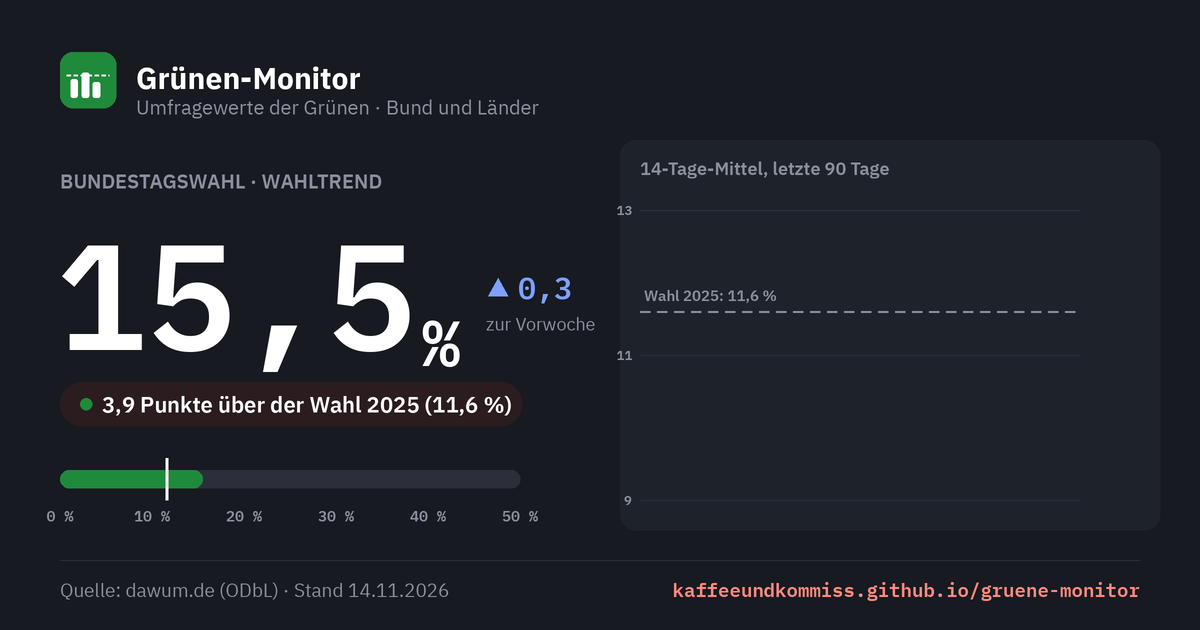
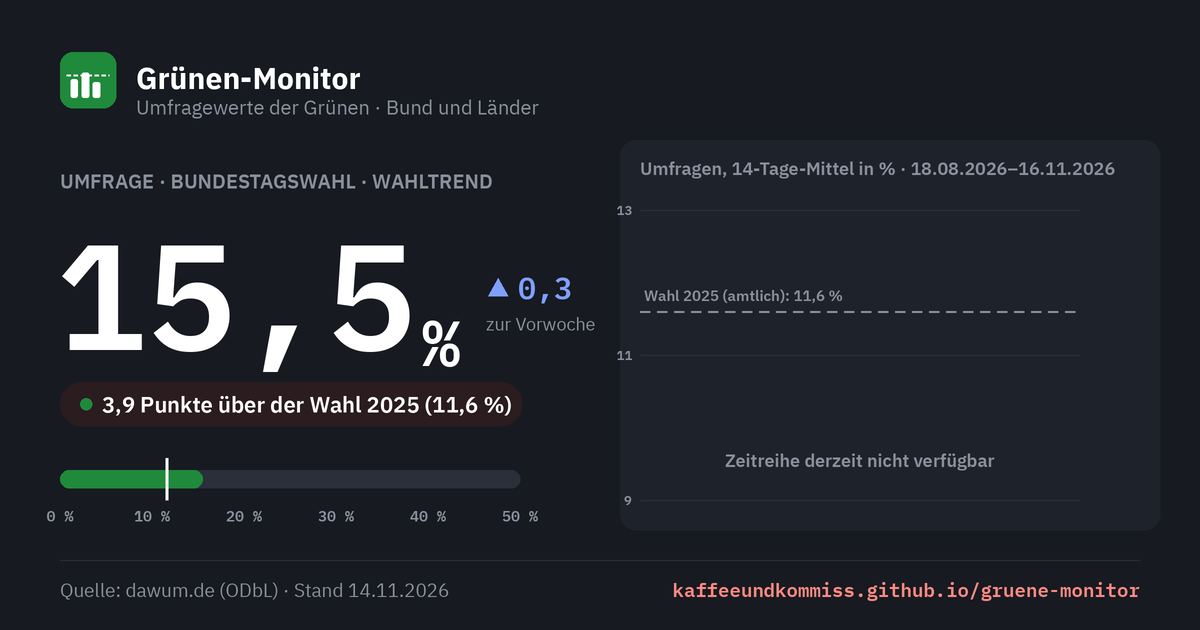
Diagramme eindeutig beschriften: Umfrage, amtliches Ergebnis, Chronik
Kennzeichen je Diagramm, Einheit, Zeitraum und Stand; Vorschaubilder
(og/make-og.py) mit derselben Kennzeichnung, damit das wöchentliche
Update die Beschriftung nicht überschreibt.

Claude-Session: https://claude.ai/code/session_01AuP7hKA5r64Vaqp6wB3yAR

diff --git a/index.html b/index.html
@@ -133,6 +133,9 @@
   .liste .lkopf{display:flex;justify-content:space-between;align-items:baseline;padding-bottom:8px;border-bottom:1px solid var(--line)}
   .liste .lkopf h3{margin:0;font-size:15px;font-weight:600}
   .liste .lkopf .skl{font-size:13px;color:var(--mute)}
+  .liste .llegende{margin:8px 0 0;font-size:13px;color:var(--mute)}
+  .abschnitt-legende{margin:6px 0 0;font-size:13px;color:var(--mute);max-width:46em}
+  .kachel .wart{font-size:12px;font-weight:600;color:var(--mute);margin-top:6px}
   .inst-zeile{display:grid;grid-template-columns:150px 1fr 60px;align-items:center;gap:14px;padding:7px 0;border-bottom:1px solid var(--hair)}
   .inst-zeile .nam{font-weight:500;font-size:14px;white-space:nowrap;overflow:hidden;text-overflow:ellipsis}
   .inst-zeile .dat{font-family:var(--mono);font-size:13px;color:var(--mute)}
@@ -240,7 +243,7 @@
   }
 .einstieg{margin:0 0 -20px;max-width:40em;color:var(--mute);font-size:16px;line-height:1.5}
 </style>
-<link rel="stylesheet" href="bereich.css?v=2">
+<link rel="stylesheet" href="bereich.css?v=3">
 </head>
 <body>
 <div class="kk-leiste"><div class="kk-in">
@@ -280,23 +283,28 @@
   <section id="bund-hero" aria-labelledby="bund-titel" data-teilen="Bundestagswahl"></section>
 
   <section id="bund-verlauf" class="karte verlauf" aria-labelledby="verlauf-titel" data-teilen="Zeitverlauf Bund" hidden>
+    <span class="art umfrage">Umfragen</span>
     <h2 id="verlauf-titel">Grüne im Zeitverlauf · Bund</h2>
     <p class="sub" id="verlauf-sub">Punkte: Einzelumfragen · Linie: 14-Tage-Mittel</p>
     <div id="verlauf-chart" class="fv-chart"></div>
-    <p class="fv-quelle">Quelle: <a href="https://dawum.de/Bundestag/" rel="noopener">dawum.de</a> · 14-Tage-Mittel ungewichtet</p>
+    <p class="fv-quelle" id="verlauf-quelle">Quelle: <a href="https://dawum.de/Bundestag/" rel="noopener">dawum.de</a> (ODbL) · 14-Tage-Mittel ungewichtet</p>
   </section>
 
   <section id="anstehend" aria-labelledby="anstehend-titel" data-teilen="Anstehende Wahlen">
+    <span class="art umfrage">Umfragen</span>
     <div class="kopfzeile">
       <h2 id="anstehend-titel">Anstehende Wahlen</h2>
       <span class="hint">nächster Termin zuerst</span>
     </div>
+    <p class="abschnitt-legende">Große Zahl: Umfragewert in % (Wahltrend, sonst Ø der neuesten Umfrage je Institut), kein Ergebnis. Balken 0–50 %, gestrichelt: amtliches Ergebnis der letzten Wahl im Land.</p>
     <div class="kacheln" id="anstehend-grid" style="margin-top:16px"></div>
-    <p class="quelle">Quelle: <a href="https://dawum.de" rel="noopener">dawum.de</a> (ODbL) · ohne Wahltrend: Ø der neuesten Umfrage je Institut · Vergleich: amtliches Ergebnis der letzten Wahl im Land</p>
+    <p class="quelle">Quelle: <a href="https://dawum.de" rel="noopener">dawum.de</a> (ODbL) · ohne Wahltrend: Ø der neuesten Umfrage je Institut · Vergleich: amtliches Ergebnis der letzten Wahl im Land<span id="anstehend-stand"></span></p>
   </section>
 
   <section id="gelaufen" aria-labelledby="gelaufen-titel" data-teilen="Gelaufene Wahlen" data-quelle="amtliche Endergebnisse der Landeswahlleitungen" hidden>
+    <span class="art amtlich">Amtliche Ergebnisse</span>
     <div class="kopfzeile"><h2 id="gelaufen-titel">Gelaufene Wahlen</h2></div>
+    <p class="abschnitt-legende">Amtliche Endergebnisse in %, Quelle je Zeile. Zur Vorwahl: Veränderung in Prozentpunkten. Balken 0–50 %, gestrichelt: Ergebnis der Wahl davor.</p>
     <div class="karte tabelle" id="gelaufen-tabelle" style="margin-top:16px"></div>
   </section>
 </main>
@@ -480,6 +488,10 @@
     return '';
   }
 
+  // Kennzeichen über jedem Diagramm: Umfrage oder amtliches Ergebnis (Gestaltung in bereich.css).
+  const artMarke = (art) => art === 'amtlich'
+    ? '<span class="art amtlich">Amtliches Ergebnis</span>' : '<span class="art umfrage">Umfragen</span>';
+
   const gruppen = gruppiereEbenen(data.ebenen || [], NOW);
 
   // ---------- Bund-Hero ----------
@@ -506,6 +518,7 @@
 
     heroEl.innerHTML = `<div class="karte hero">
       <div class="zahlen">
+        ${artMarke(lz.art === 'ergebnis' ? 'amtlich' : 'umfrage')}
         <h2 class="ueberschrift" id="bund-titel">${esc(bund.name)} · ${
           lz.art === 'trend' ? 'Wahltrend' : lz.art === 'ergebnis' ? 'Amtliches Ergebnis' : 'Ø der Umfragen'}</h2>
         <div class="leitzahl">
@@ -521,7 +534,7 @@
             ${balken(lz.wert, ref, (ref ? '<div class="marklbl">Wahl ' + esc(ref.jahr) + ': ' + pz(ref.wert) + '</div>' : '') + punkte)}
           </div>
           <div class="achse"><span>0 %</span><span>10 %</span><span>20 %</span><span>30 %</span><span>40 %</span><span>50 %</span></div>
-          <div class="legende">Balken: ${lz.art === 'trend' ? 'Wahltrend' : 'Leitzahl'} · Punkte: Einzelumfragen${ref ? ' · gestrichelt: Ergebnis der Wahl ' + esc(ref.jahr) : ''}</div>
+          <div class="legende">Angaben in %. Balken: ${lz.art === 'trend' ? 'Wahltrend (Umfragen)' : lz.art === 'ergebnis' ? 'amtliches Ergebnis' : 'Ø der Umfragen'} · Punkte: Einzelumfragen${ref ? ' · gestrichelt: amtliches Ergebnis der Wahl ' + esc(ref.jahr) : ''}</div>
         </div>
         <dl class="kennzahlen">
           <div><dt>Ø neueste Umfrage je Institut</dt><dd>${lz.avg == null ? '–' : pz(lz.avg)}</dd></div>
@@ -539,6 +552,7 @@
           <div class="lkopf">
             <h3>Neueste Umfrage je Institut</h3><span class="skl">Skala 0–50 %</span>
           </div>
+          <p class="llegende">Balken: Umfragewert in %${ref ? ' · gestrichelt: amtliches Ergebnis der Wahl ' + esc(ref.jahr) : ''}</p>
           ${rows.length ? rows.slice().sort((a, b) => (b.datum || '').localeCompare(a.datum || '')).map((r) =>
             `<div class="inst-zeile">
                <div><div class="nam">${esc(r.institut)}</div><div class="dat">${dfmt(r.datum)}</div></div>
@@ -584,8 +598,17 @@
     }
     const linie = gleitendesMittel(punkte, FENSTER);
     const sub = document.getElementById('verlauf-sub');
-    if(sub) sub.textContent = `Letzte ${TAGE} Tage · Punkte: Einzelumfragen · `
-      + `Linie: ${FENSTER}-Tage-Mittel`;
+    // Zeitraum und Stand als Datum, nicht nur "letzte 90 Tage": ein Screenshot muss
+    // auch Wochen später noch sagen, welches Fenster er zeigt.
+    const refV = vw(bund);
+    const bisT = NOW || new Date();
+    const vonT = new Date(Date.UTC(bisT.getUTCFullYear(), bisT.getUTCMonth(), bisT.getUTCDate()) - TAGE * 864e5);
+    const isoT = (t) => new Date(t).toISOString().slice(0, 10);
+    if(sub) sub.textContent = `Umfragewerte Bundestagswahl in %, ${dfmt(isoT(vonT))}–${dfmt(isoT(bisT))} `
+      + `(letzte ${TAGE} Tage) · Punkte: Einzelumfragen · Linie: ${FENSTER}-Tage-Mittel`
+      + (refV ? ` · gestrichelt: amtliches Ergebnis ${refV.jahr}` : '');
+    const vq = document.getElementById('verlauf-quelle');
+    if(vq) vq.append(` · letzte Umfrage vom ${dfmt(isoT(punkte[punkte.length - 1].t))}`);
 
     const NS = 'http://www.w3.org/2000/svg';
     const el = (n, a, eltern) => { const e = document.createElementNS(NS, n);
@@ -664,7 +687,7 @@
       // Beschriftung der letzten Wahl erst nach den Punkten zeichnen: so liegt ihr Hof
       // über den Umfragepunkten und die Angabe bleibt auch am Handy lesbar.
       if(ref) el('text', {x: ml + 4, y: Y(ref.wert) - 6, 'font-size': 12, 'font-weight': 600,
-        class: 'fv-frei', fill: 'var(--fv-vorwahl)'}, svg).textContent = 'Wahl ' + ref.jahr + ': ' + fmt(ref.wert) + ' %';
+        class: 'fv-frei', fill: 'var(--fv-vorwahl)'}, svg).textContent = 'Wahl ' + ref.jahr + ' (amtlich): ' + fmt(ref.wert) + ' %';
 
       const letzte = linie[linie.length - 1];
       el('text', {x: Math.min(X(letzte.t) + 6, W - 4), y: Y(letzte.v), dy: '0.32em',
@@ -758,6 +781,7 @@
         </div>
         ${tage != null ? `<span class="tage">in ${tage} T.</span>` : ''}
       </div>
+      <div class="wart">${lz.art === 'ergebnis' ? 'Amtliches Ergebnis' : lz.art === 'trend' ? 'Umfrage · Wahltrend' : 'Umfrage · Ø'}</div>
       <div class="wert">
         <span class="num">${lz.wert == null ? '–' : pz(lz.wert)}</span>
         <span class="pill ${h.status}">${esc(datenhinweis ? 'nicht ausgewiesen' : h.kurz)}</span>
@@ -780,8 +804,8 @@
     document.getElementById('gelaufen-tabelle').innerHTML = `<table>
       <thead><tr>
         <th>Wahl</th><th>Datum</th>
-        <th style="text-align:right">Ergebnis</th>
-        ${mitTrend ? '<th style="text-align:right">Letzter Trend</th>' : ''}
+        <th style="text-align:right">Ergebnis (amtl.)</th>
+        ${mitTrend ? '<th style="text-align:right">Letzter Wahltrend (Umfrage)</th>' : ''}
         <th class="vgl" style="text-align:right">Zur Vorwahl</th>
         <th class="abstand">Ergebnis und Vorwahl</th>
       </tr></thead>
@@ -798,7 +822,7 @@
         return `<tr id="zeile-${esc(e.id)}">
           <td class="wahl">${esc(teileName(e.name).land)}${beleg}</td>
           <td class="mono">${dfmt(e.wahltermin)}</td>
-          <td class="erg">${lz.wert != null ? pz(lz.wert) + (erg.vorlaeufig ? ' *' : '') : '–'}${vgl
+          <td class="erg">${lz.wert != null ? pz(lz.wert) + (lz.art !== 'ergebnis' ? ' (Umfrage)' : erg.vorlaeufig ? ' *' : '') : '–'}${vgl
             ? '<span class="vgl-kurz">' + vgl + ' zu ' + esc(vw(e).jahr) + '</span>' : ''}</td>
           ${mitTrend ? `<td class="trend">${t.wert != null ? pz(t.wert) : '–'}</td>` : ''}
           <td class="vgl" title="${vgl ? 'Wahl ' + esc(vw(e).jahr) + ': ' + pz(vw(e).wert) : ''}">${vgl || '–'}</td>
@@ -808,6 +832,13 @@
       ${gelaufen.some((e) => (e.wahlergebnis || {}).vorlaeufig)
         ? '<p class="basis" style="padding:0 20px 14px">* vorläufiges amtliches Ergebnis</p>' : ''}`;
   }
+
+  const standSeite = SNAP ? 'Momentaufnahme ' + kwText(SNAP) : data.erstellt ? 'Stand ' + dfmt(data.erstellt) : '';
+  const ast = document.getElementById('anstehend-stand');
+  // Die Kacheln zeigen live abgerufene Umfragen, wenn dawum erreichbar war – dann gilt deren Stand.
+  const liveStand = !SNAP && db && db.Database && db.Database.Last_Update;
+  if(ast) ast.textContent = liveStand ? ' · Umfragen live, Datenbank-Stand ' + dfmt(liveStand)
+    : standSeite ? ' · ' + standSeite : '';
 
   // Link- und Bild-Knöpfe erst jetzt: die Abschnitte sind gerendert, und ein #Anker
   // aus einem geteilten Link kann angesprungen werden.

diff --git a/partei-seite.js b/partei-seite.js
@@ -15,6 +15,8 @@
       .map((b) => `<a href="${esc(b.url)}" rel="noopener">${esc(b.name)}</a>`);
     const hinweis = (d.belege_hinweis || {})[k];
     const teile = [links.length ? 'Quelle: ' + links.join(' · ') : '', hinweis ? esc(hinweis) : ''].filter(Boolean);
+    if(teile.length && d.stand && ['wahlen', 'zeitleiste', 'vorsitz'].includes(k))
+      teile.push('· Stand ' + dfmt(d.stand) + ' (zuletzt geprüft)');
     if(teile.length) p.innerHTML = teile.join(' '); else p.remove();
   });
 
@@ -66,11 +68,15 @@
   if(k && $('kennzahlen')){
     const regierung = d.wahlen.filter((w) => w.rolle === 'Regierung').length;
     document.getElementById('kennzahlen').innerHTML = [
-      ['Bestes Ergebnis', fmt(k.best.ergebnis) + ' %', 'Bundestagswahl ' + k.best.jahr, ''],
-      ['Letztes Ergebnis', fmt(k.letzte.ergebnis) + ' %', 'Bundestagswahl ' + k.letzte.jahr + ' · ' + k.letzte.rolle, ''],
+      ['Bestes Ergebnis', fmt(k.best.ergebnis) + ' %', 'Bundestagswahl ' + k.best.jahr + ' · amtlich', ''],
+      ['Letztes Ergebnis', fmt(k.letzte.ergebnis) + ' %', 'Bundestagswahl ' + k.letzte.jahr + ' · amtlich · danach ' + k.letzte.rolle, ''],
       ['In Regierung danach', regierung + ' von ' + k.anzahl, 'Wahlperioden nach den Wahlen ' + d.wahlen[0].jahr + '–' + k.letzte.jahr, ''],
     ].map(([l, n, s, c]) => `<div class="karte"><div class="lbl">${esc(l)}</div><div class="num ${c}">${esc(n)}</div><div class="sub">${esc(s)}</div></div>`).join('');
   }
+
+  // ---------- Zeitraum je Diagramm (Titel/Untertitel) ----------
+  if((d.wahlen || []).length && $('wahlen-titel'))
+    $('wahlen-titel').textContent = 'Bundestagswahlen ' + d.wahlen[0].jahr + '–' + d.wahlen[d.wahlen.length - 1].jahr;
 
   // ---------- Bundesvorsitzende: Kennzahlen und Tabelle ----------
   // Laufende Amtszeit zählt bis heute, deshalb einmal beim Laden berechnet.
@@ -104,6 +110,7 @@
     const mt = 4, mb = 24, zh = 24, H = mt + zeiten.length * zh + mb;
     svg.setAttribute('viewBox', `0 0 ${W} ${H}`);
     const von = Date.UTC(Math.min(...zeiten.map((z) => new Date(z.a).getUTCFullYear())), 0, 1), bis = Math.max(...zeiten.map((z) => z.b));
+    if($('vorsitz-zeitraum')) $('vorsitz-zeitraum').textContent = 'Zeitraum ' + new Date(von).getUTCFullYear() + ' bis heute, x-Achse in Jahren. ';
     const X = (t) => ml + (t - von) / (bis - von) * (W - ml - mr);
     const tip = tooltip(host);
     const schritt = schmal ? 20 : 10;
@@ -127,7 +134,7 @@
   function wahlen(){
     const host = document.getElementById('chart-wahlen'); host.replaceChildren();
     const rows = d.wahlen, W = Math.max(280, host.clientWidth), H = 250, schmal = W < 420;
-    const ml = 30, mr = 6, mt = 22, mb = 26;
+    const ml = schmal ? 30 : 42, mr = 6, mt = 22, mb = 26;
     const yMax = Math.max(16, Math.ceil(Math.max(...rows.map((r) => r.ergebnis)) / 10) * 10);
     const band = (W - ml - mr) / rows.length, bw = Math.min(32, band * 0.62);
     const X = (i) => ml + i * band + band / 2, Y = (v) => H - mb - v / yMax * (H - mt - mb);
@@ -136,7 +143,7 @@
     const tip = tooltip(host);
     for(let v = 0; v <= yMax; v += 10){
       el('line', {x1: ml, x2: W - mr, y1: Y(v), y2: Y(v), stroke: 'var(--line)'}, svg);
-      txt(svg, {x: ml - 6, y: Y(v), dy: '0.32em', 'text-anchor': 'end'}, v);
+      txt(svg, {x: ml - 6, y: Y(v), dy: '0.32em', 'text-anchor': 'end'}, schmal ? v : v + ' %');
     }
     rows.forEach((r, i) => {
       const b = el('rect', {x: X(i) - bw / 2, y: Y(r.ergebnis), width: bw, height: Y(0) - Y(r.ergebnis),
@@ -158,6 +165,7 @@
     const host = document.getElementById('chart-zeit'); host.replaceChildren();
     const jetzt = new Date();
     const von = Date.UTC(1998, 0, 1), bis = Date.UTC(jetzt.getUTCFullYear(), jetzt.getUTCMonth(), jetzt.getUTCDate());
+    if($('zeit-zeitraum')) $('zeit-zeitraum').textContent = 'Zeitraum ' + new Date(von).getUTCFullYear() + ' bis heute. ';
     const balken = PU.zeitBalken(d.zeitleiste, von, bis);
     const W = Math.max(280, host.clientWidth), ml = 4, mr = 4, mt = 4, mb = 24, lh = 26, kopf = 16;
     const H = mt + SPUREN.length * (lh + kopf + 4) + mb;

diff --git a/partei.html b/partei.html
@@ -33,7 +33,7 @@
 <link href="https://fonts.googleapis.com/css2?family=Barlow+Condensed:wght@500;600;700&family=IBM+Plex+Sans:wght@400;500;600;700&family=IBM+Plex+Mono:wght@400;500;600&display=swap" rel="stylesheet">
 <link rel="stylesheet" href="basis.css">
 <link rel="stylesheet" href="partei.css?v=2">
-<link rel="stylesheet" href="bereich.css?v=2">
+<link rel="stylesheet" href="bereich.css?v=3">
 </head>
 <body>
 <div class="kk-leiste"><div class="kk-in">
@@ -73,8 +73,9 @@
   <section class="kennzahlen" id="kennzahlen" aria-label="Kennzahlen"></section>
 
   <section class="karte diagramm" id="bundestagswahlen" aria-labelledby="wahlen-titel" data-teilen="Bundestagswahlen" data-quelle="Bundeswahlleiterin">
+    <span class="art amtlich">Amtliche Ergebnisse</span>
     <h2 id="wahlen-titel">Bundestagswahlen</h2>
-    <p class="sub">Zweitstimmen in Prozent. Farbe: Rolle in der folgenden Wahlperiode.</p>
+    <p class="sub">Amtliche Endergebnisse, keine Umfragen: Zweitstimmenanteil in %. Farbe: Rolle in der folgenden Wahlperiode.</p>
     <div class="chart" id="chart-wahlen"></div>
     <div class="legende" id="legende-wahlen"></div>
     <p class="quelle" data-beleg="wahlen"></p>
@@ -82,8 +83,9 @@
 
 
   <section class="karte diagramm" id="zeitleiste" aria-labelledby="zeit-titel" data-teilen="Vorsitz, Programme, Rolle im Bund" data-quelle="bpb, Bundeswahlleiterin">
+    <span class="art chronik">Chronik</span>
     <h2 id="zeit-titel">Vorsitz, Programme, Rolle im Bund</h2>
-    <p class="sub">Senkrechte Linien: Bundestagswahlen.</p>
+    <p class="sub"><span id="zeit-zeitraum"></span>Senkrechte Linien: Bundestagswahlen.</p>
     <div class="chart" id="chart-zeit"></div>
     <div class="legende" id="legende-zeit"></div>
     <dl class="zeit-schluessel" id="schluessel-zeit" hidden></dl>
@@ -97,8 +99,9 @@
     </div>
     <div class="kennzahlen" id="vorsitz-kennzahlen"></div>
     <div class="karte diagramm" id="vorsitzende" data-teilen="Parteivorsitz" data-quelle="Bündnis 90/Die Grünen, Heinrich-Böll-Stiftung, Wikipedia">
+      <span class="art chronik">Chronik</span>
       <h2 id="vorsitz-chart-titel">Amtszeiten im Zeitstrahl</h2>
-      <p class="sub">Amtsdauer in Jahren je Besetzung der Doppelspitze. Grün: amtierend, bis heute gerechnet; grau: abgeschlossen. Bis 2001 hießen die Ämter Bundessprecher.</p>
+      <p class="sub"><span id="vorsitz-zeitraum"></span>Amtsdauer in Jahren je Besetzung der Doppelspitze. Grün: amtierend, bis heute gerechnet; grau: abgeschlossen. Bis 2001 hießen die Ämter Bundessprecher.</p>
       <div class="chart" id="chart-vorsitz"></div>
       <details class="vtab">
         <summary>Alle Amtszeiten als Tabelle</summary>

diff --git a/tests/e2e/polls.spec.js b/tests/e2e/polls.spec.js
@@ -455,7 +455,7 @@ test.describe("Zeitverlauf Bund", () => {
 
   test("markiert die letzte Bundestagswahl gestrichelt und beschriftet sie", async ({ page }) => {
     await mitVerlauf(page);
-    await expect(page.locator("#verlauf-chart text", { hasText: "Wahl 2025: 4,3 %" })).toHaveCount(1);
+    await expect(page.locator("#verlauf-chart text", { hasText: "Wahl 2025 (amtlich): 4,3 %" })).toHaveCount(1);
     await expect(page.locator('#verlauf-chart line[stroke-dasharray]')).toHaveCount(1);
   });
 
@@ -523,7 +523,7 @@ test.describe("Zeitverlauf Bund", () => {
 
   test("nennt den Zeitraum in der Unterzeile", async ({ page }) => {
     await mitVerlauf(page);
-    await expect(page.locator("#verlauf-sub")).toContainText("Letzte 90 Tage");
+    await expect(page.locator("#verlauf-sub")).toContainText("letzte 90 Tage");
   });
 
   test.describe("mobil", () => {
@@ -564,5 +564,24 @@ test.describe("Zeitverlauf Bund", () => {
       expect(tip.y).toBeGreaterThanOrEqual(chart.y - 1);
       expect(tip.y + tip.height).toBeLessThanOrEqual(chart.y + chart.height + 1);
     });
+  });
+});
+
+// Umfragewerte, Wahlergebnisse und Zeitverlauf dürfen nicht verwechselt werden:
+// jeder Abschnitt trägt ein Kennzeichen als Text, Kacheln und Tabelle zusätzlich je Wert.
+test.describe("Kennzeichnung der Diagramme", () => {
+  test("Umfragen und amtliche Ergebnisse sind je Abschnitt gekennzeichnet", async ({ page }) => {
+    await seite(page);
+    await expect(page.locator("#bund-hero .art")).toHaveText("Umfragen");
+    await expect(page.locator("#bund-verlauf .art")).toHaveText("Umfragen");
+    await expect(page.locator("#anstehend .art")).toHaveText("Umfragen");
+    await expect(page.locator("#gelaufen .art")).toHaveText("Amtliche Ergebnisse");
+    await expect(page.locator("#gelaufen-tabelle thead")).toContainText("Ergebnis (amtl.)");
+    await expect(page.locator("#anstehend .kachel .wart").first()).toContainText("Umfrage");
+  });
+
+  test("die Quelle der Kacheln nennt den Stand", async ({ page }) => {
+    await seite(page);
+    await expect(page.locator("#anstehend .quelle")).toContainText("Stand");
   });
 });

diff --git a/tests/e2e/partei.spec.js b/tests/e2e/partei.spec.js
@@ -72,3 +72,16 @@ test("Zeitleiste am Desktop: Schlüssel nur für Spuren, deren Balken zu schmal 
   const schl = page.locator("#schluessel-zeit");
   await expect(schl).not.toContainText("Rolle im Bund");  // deckt die Farblegende ab
 });
+
+test("Diagramme der Parteiseite: Kennzeichen, Einheit, Zeitraum und Stand", async ({ page }) => {
+  await page.goto("/partei.html");
+  await expect(page.locator("#chart-wahlen rect").first()).toBeVisible();
+  await expect(page.locator("#bundestagswahlen .art")).toHaveText("Amtliche Ergebnisse");
+  await expect(page.locator("#wahlen-titel")).toHaveText(/^Bundestagswahlen \d{4}–\d{4}$/);
+  await expect(page.locator("#chart-wahlen text", { hasText: /^0 %$/ })).toHaveCount(1);
+  await expect(page.locator("#bundestagswahlen .quelle")).toContainText("Stand");
+  await expect(page.locator("#zeitleiste .art")).toHaveText("Chronik");
+  await expect(page.locator("#zeit-zeitraum")).toContainText("bis heute");
+  await expect(page.locator("#vorsitzende .art")).toHaveText("Chronik");
+  await expect(page.locator("#vorsitz-zeitraum")).toContainText("bis heute");
+});

diff --git a/bereich.css b/bereich.css
@@ -50,3 +50,12 @@
 
 /* Monitorname ist auf der Umfrageseite die Hauptüberschrift (h1) */
 .marke h1.name { margin: 0 }
+
+/* Kennzeichen über Diagrammen (22.11.2026): Umfrage, amtliches Ergebnis oder Chronik.
+   Als Text, nicht nur als Farbe, damit es auch in Graustufen und auf Screenshots eindeutig ist.
+   Umfragen gestrichelt (Schätzung), amtliche Ergebnisse vollflächig (festgestellt). */
+.art { display: inline-block; margin: 0 0 8px; padding: 3px 7px; font: 600 11px/1.3 var(--mono, monospace);
+  letter-spacing: .08em; text-transform: uppercase; border: 1px solid; border-radius: 0; white-space: nowrap }
+.art.umfrage { color: var(--kk-akzent, #1E4FD8); border-style: dashed; background: #FFFFFF }
+.art.amtlich { color: #FFFFFF; background: #000000; border-color: #000000 }
+.art.chronik { color: #555555; border-color: #D6D6D6; background: #FFFFFF }

diff --git a/tests/e2e/teilen.spec.js b/tests/e2e/teilen.spec.js
@@ -65,7 +65,7 @@ test.describe("Belege und Einordnung", () => {
 
   test("ohne Trendwerte gibt es keine leere Trend-Spalte", async ({ page }) => {
     await laden(page);
-    await expect(page.locator("#gelaufen-tabelle th")).not.toContainText(["Letzter Trend"]);
+    await expect(page.locator("#gelaufen-tabelle th")).not.toContainText(["Letzter Wahltrend"]);
   });
 
   test("ein Wert aus nur einer Umfrage ist als wenig belastbar markiert, auch am Handy", async ({ page }) => {

diff --git a/og/make-og.py b/og/make-og.py
@@ -132,7 +132,7 @@ def bild_umfragen(data, pfad):
     c = Leinwand()
     c.kopf("Umfragewerte der Grünen · Bund und Länder")
 
-    c.text(60, 168, ("Bundestagswahl · " + art).upper(), HALB(20), GRAU)
+    c.text(60, 168, ("Umfrage · Bundestagswahl · " + art).upper(), HALB(20), GRAU)
     num = "–" if wert is None else fmt(wert)
     c.text(56, 196, num, MONO(150), WEISS)
     nx = 56 + c.breite(num, MONO(150))
@@ -179,7 +179,8 @@ def bild_umfragen(data, pfad):
     linie, ab, bis = mittel_14(((bund.get("verlauf") or {}).get("rows") or []), stichtag=erstellt)
     gx0, gx1, gy0, gy1 = 640, 1140, 190, 500
     c.rect(gx0 - 20, gy0 - 50, gx1 + 20, gy1 + 30, "#1E222B", 16)
-    c.text(gx0, gy0 - 22, "14-Tage-Mittel, letzte 90 Tage", HALB(18), GRAU, "lm")
+    c.text(gx0, gy0 - 22, f"Umfragen, 14-Tage-Mittel in % · {dfmt(ab.isoformat())}–{dfmt(bis.isoformat())}",
+           HALB(18), GRAU, "lm")
     werte = [v for _, v in linie] + ([rw] if rw is not None else [])
     ymin = max(0, int(min(werte or [0])) - 2)
     ymax = max(ymin + 4, int(max(werte or [4])) + 2)
@@ -190,11 +191,13 @@ def bild_umfragen(data, pfad):
         c.text(gx0 - 8, Y(v), f"{v}", MONO(13), GRAU, "rm")
     if rw is not None:
         c.gestrichelt(gx0, gx1 - 60, Y(rw), GRAU, 2)
-        c.text(gx0 + 4, Y(rw) - 16, f"Wahl {ref.get('jahr', '')}: {fmt(rw)} %", HALB(15), GRAU, "lm")
+        c.text(gx0 + 4, Y(rw) - 16, f"Wahl {ref.get('jahr', '')} (amtlich): {fmt(rw)} %", HALB(15), GRAU, "lm")
     if len(linie) >= 2:
         c.line([(X(t), Y(v)) for t, v in linie], WEISS, 3.5)
         t, v = linie[-1]
         c.text(X(t) + 10, Y(v), fmt(v) + " %", MONO(20), WEISS, "lm")
+    else:
+        c.text((gx0 + gx1 - 60) / 2, gy1 - 40, "Zeitreihe derzeit nicht verfügbar", HALB(18), GRAU, "mm")
 
     c.fuss(f"Quelle: dawum.de (ODbL) · Stand {dfmt(stand) if stand else 'unbekannt'}")
     c.speichern(pfad)
@@ -205,7 +208,7 @@ def bild_partei(partei, pfad):
     c.kopf("Die Grünen auf Bundesebene")
     wahlen = partei["wahlen"]
     erste, letzte = wahlen[0], wahlen[-1]
-    c.text(60, 168, f"BUNDESTAGSWAHLEN {erste['jahr']}–{letzte['jahr']} · ZWEITSTIMMEN", HALB(20), GRAU)
+    c.text(60, 168, f"BUNDESTAGSWAHLEN {erste['jahr']}–{letzte['jahr']} · AMTLICHE ERGEBNISSE IN %", HALB(20), GRAU)
     beste = max(wahlen, key=lambda w: w["ergebnis"])
     c.text(60, 214, f"Bestes Ergebnis {fmt(beste['ergebnis'])} % ({beste['jahr']})", HALB(26), WEISS)
     c.text(60, 254, f"Zuletzt {fmt(letzte['ergebnis'])} % ({letzte['jahr']})", HALB(26), "#FF8A80")

diff --git a/README.md b/README.md
@@ -11,3 +11,10 @@ pip install -r requirements-dev.txt && pytest              # update.py
 npm install && npm test                                    # monitor-utils.js, partei-utils.js (Vitest)
 npm install && npx playwright install chromium && npm run test:e2e   # index.html, partei.html (Playwright)
 ```
+
+## Diagrammbeschriftung (seit 22.11.2026)
+
+Jedes Diagramm trägt ein Kennzeichen als Text (`.art` in `bereich.css`): **Umfragen** (gestrichelter Rahmen),
+**Amtliche Ergebnisse** (schwarz) oder **Chronik**. Dazu Titel, Einheit (%), Zeitraum, Quelle und Stand.
+Die Texte stehen in `index.html`, `partei.html`, `partei-seite.js` und `og/make-og.py`; `update.py` schreibt nur Daten
+und überschreibt sie nicht. Vergleichslinien heißen „Wahl JJJJ (amtlich)“.
